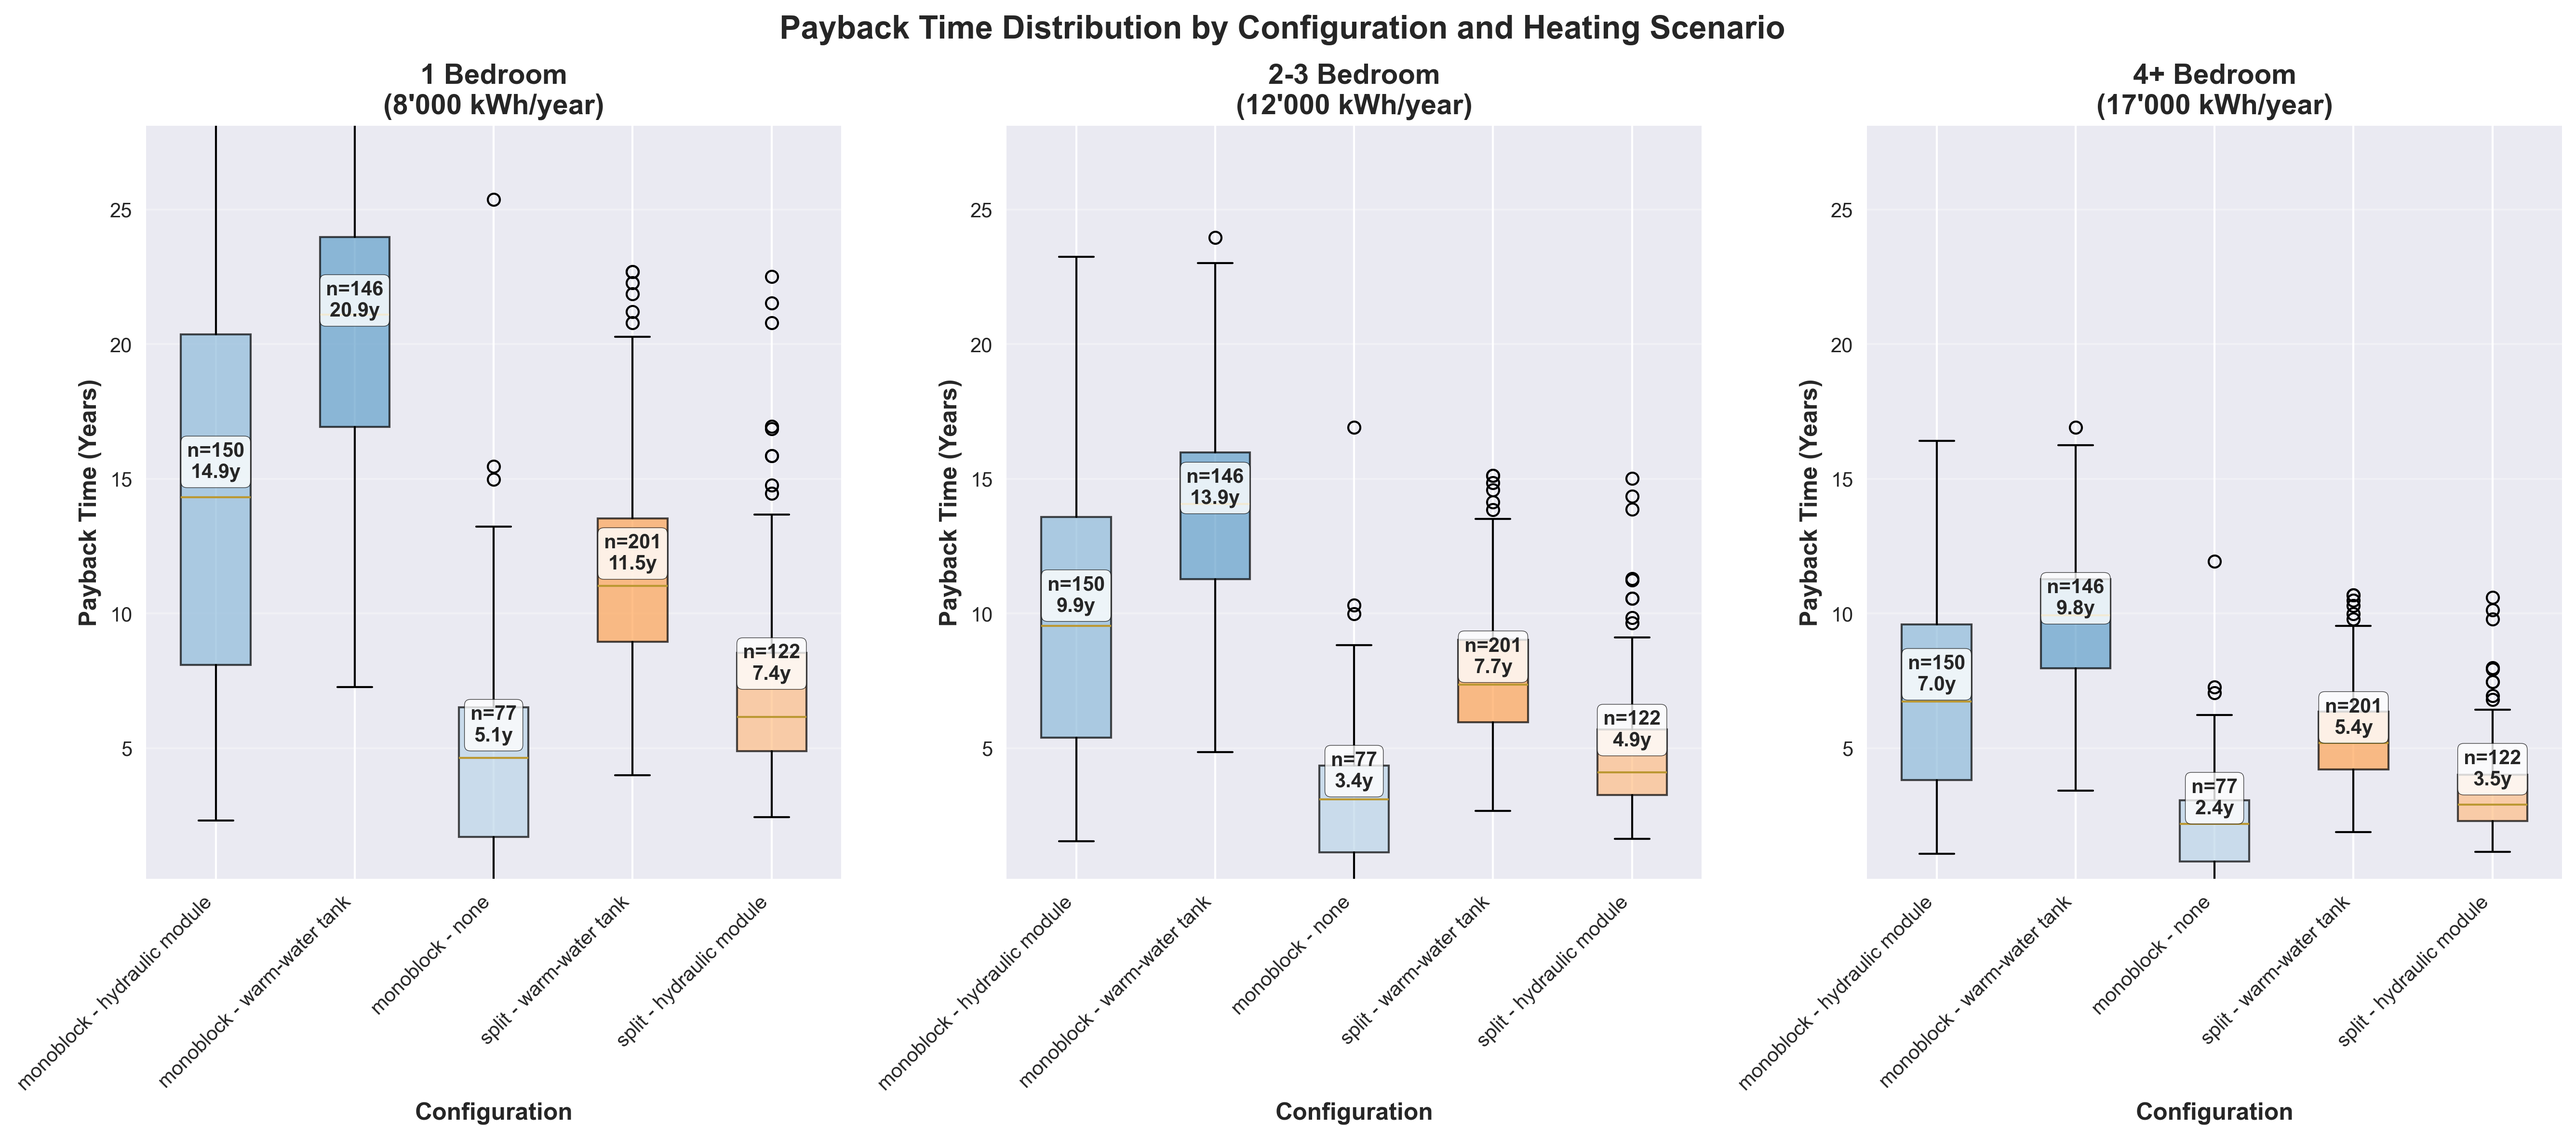
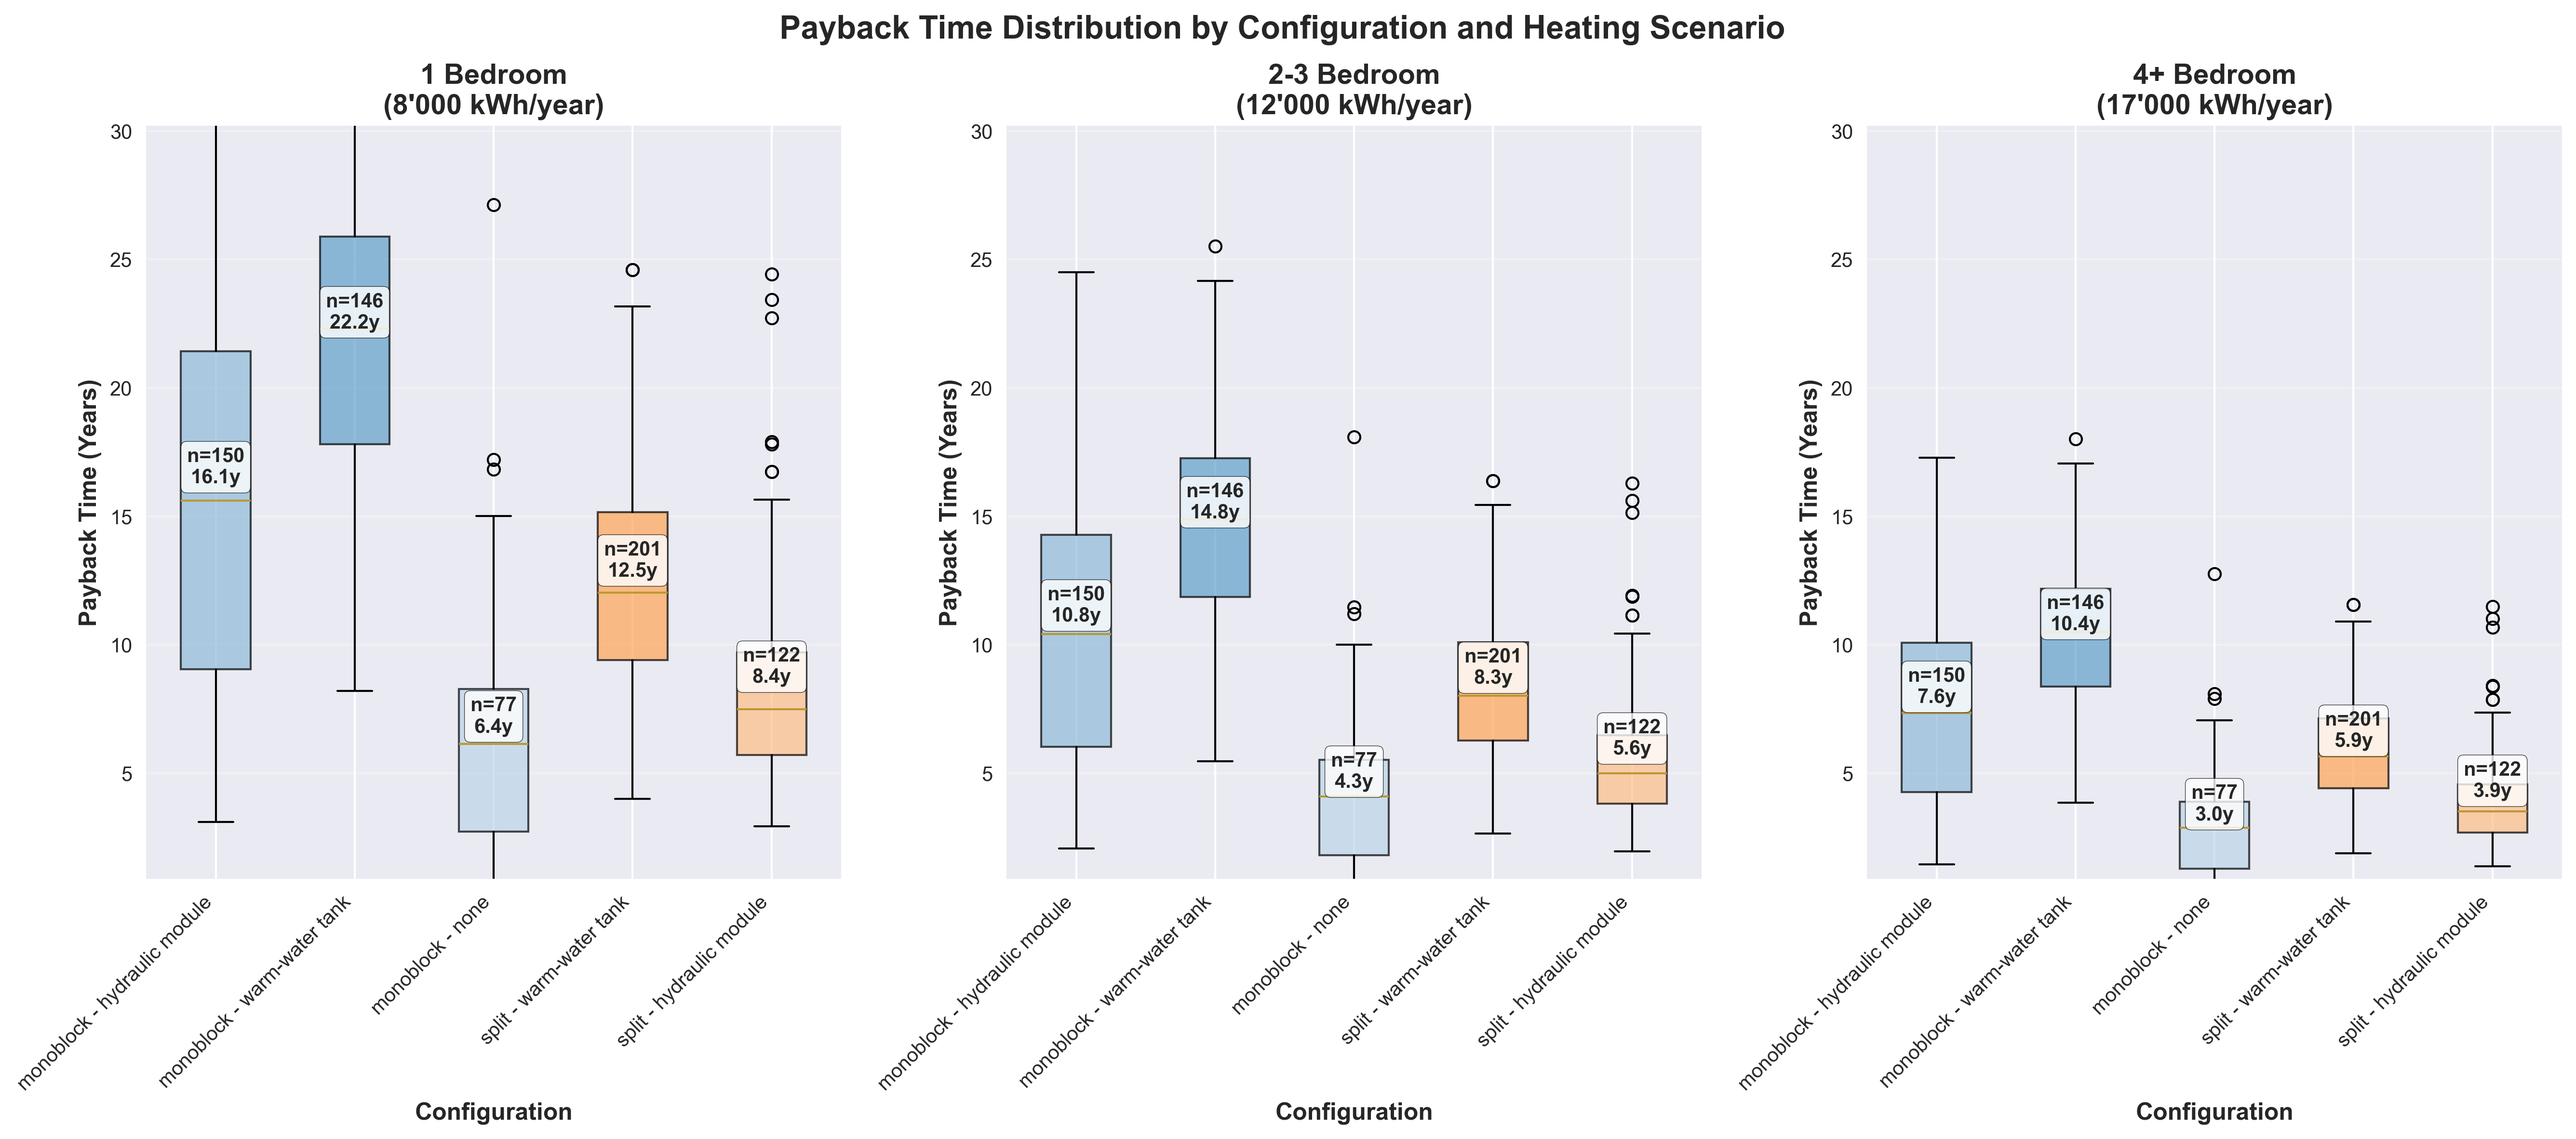
Update gas boiler costs in payback analysis

diff --git a/Pricescraper/6_analysis/time_to_payback_analysis.py b/Pricescraper/6_analysis/time_to_payback_analysis.py
@@ -8,8 +8,8 @@ import matplotlib.colors as mcolors
 # --- PARAMETERS ---
 GAS_BOILER_COSTS = {
     'low': 2500,    # <6kW
-    'medium': 3500, # 6-9kW
-    'high': 4500    # >9kW
+    'medium': 3000, # 6-9kW
+    'high': 3500    # >9kW
 }
 GAS_PRICE = 0.11
 ELECTRICITY_PRICE = 0.29
